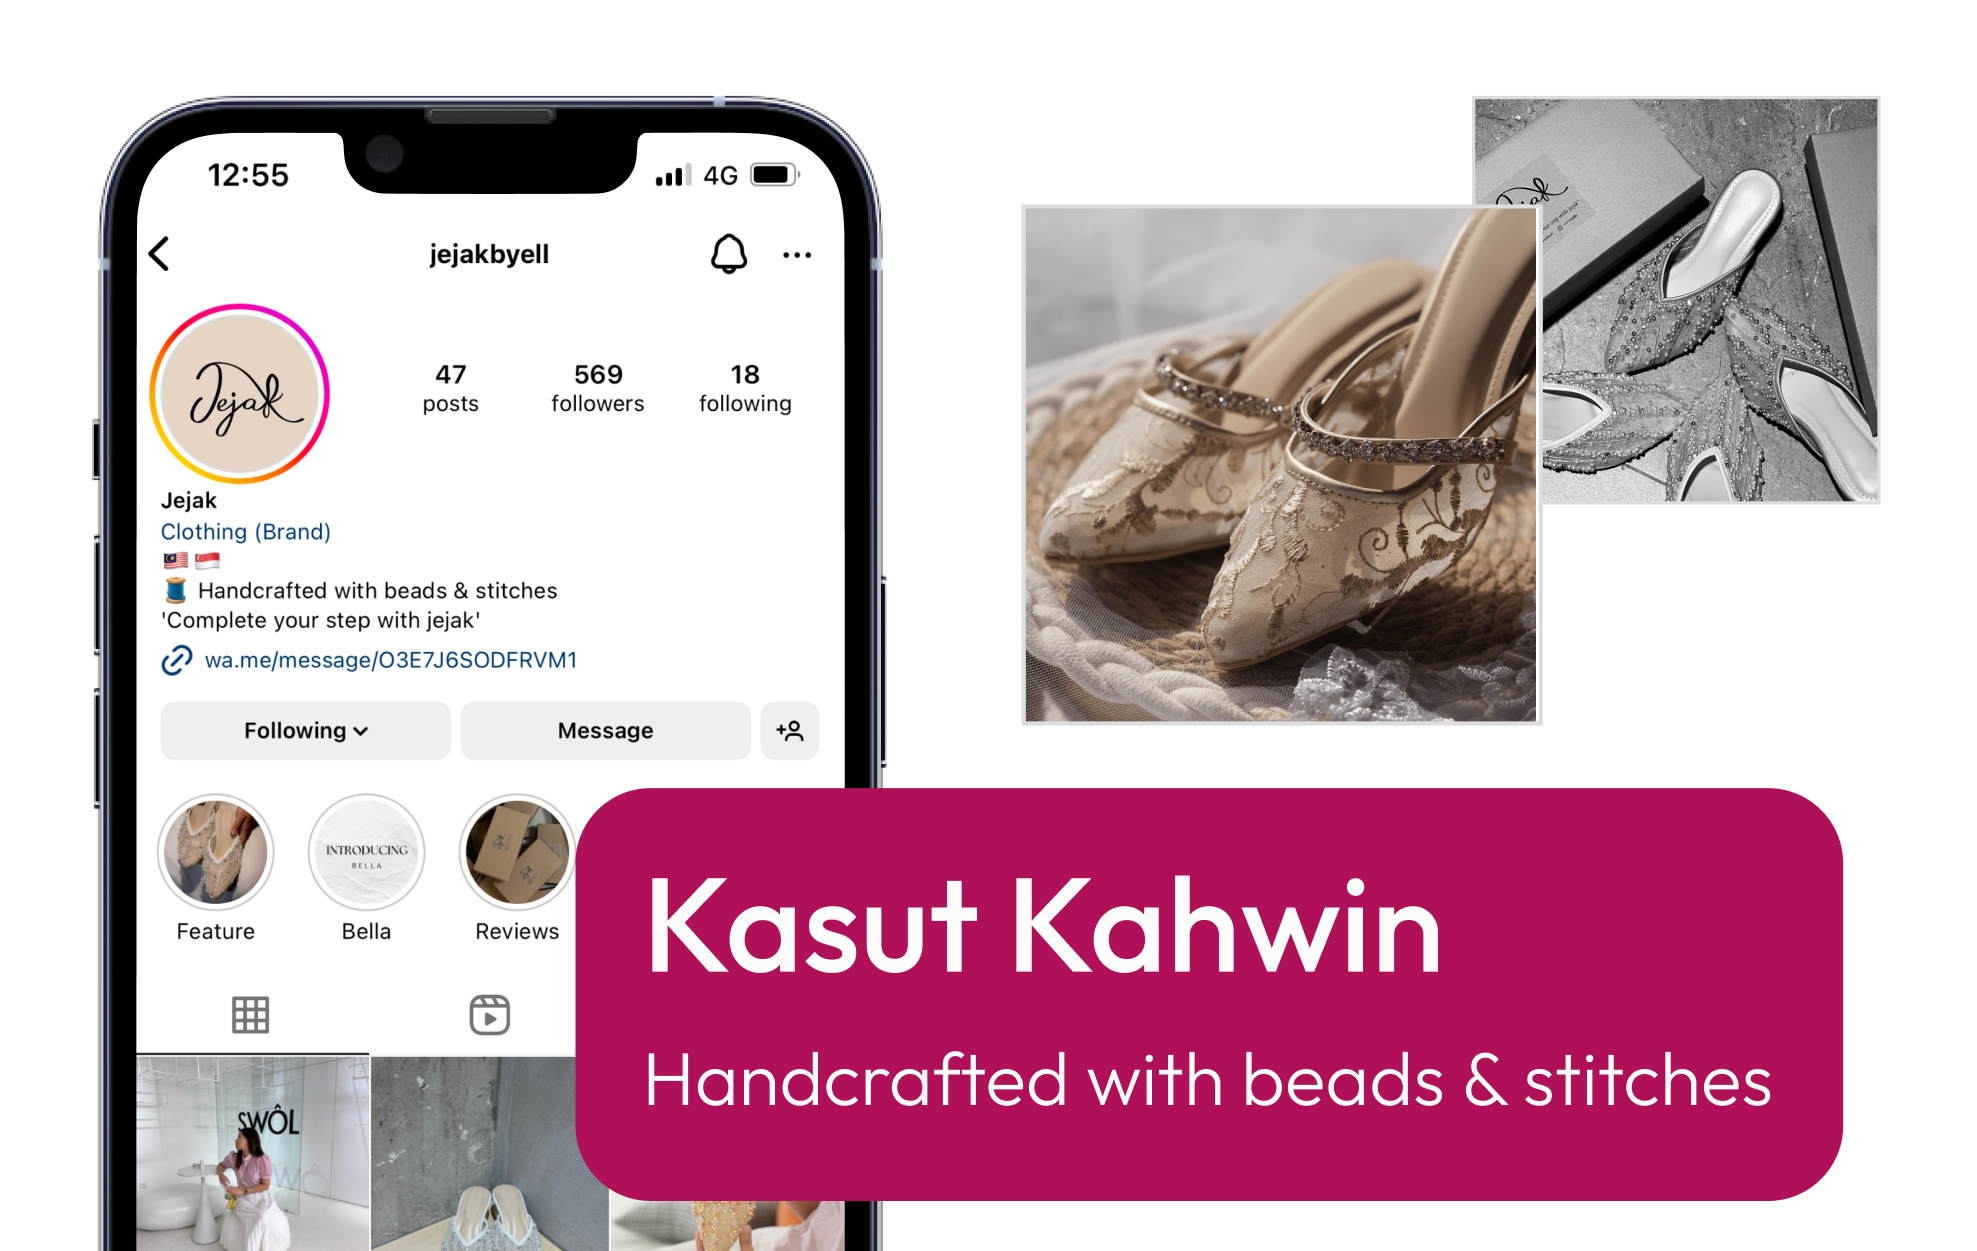
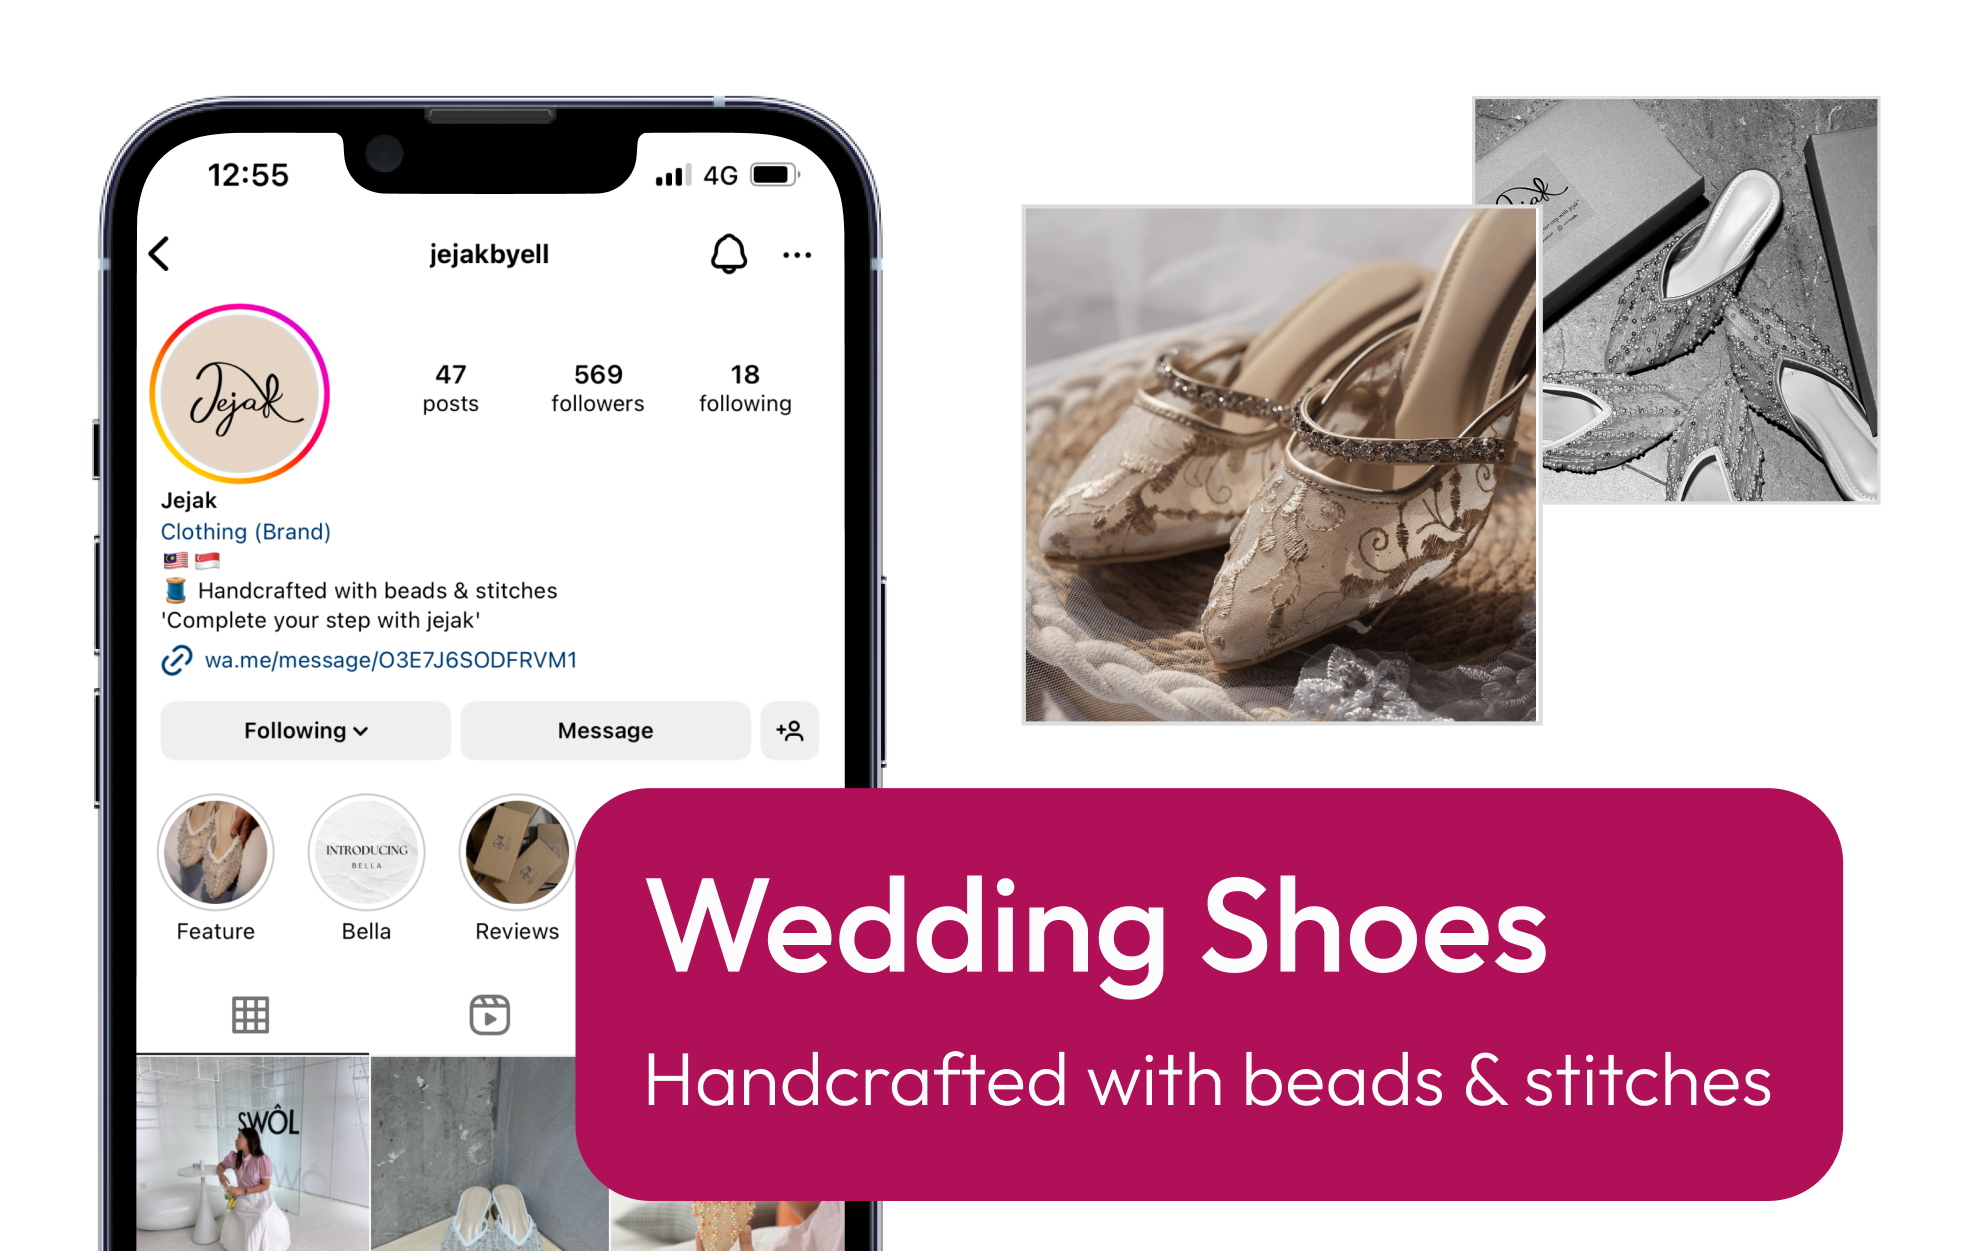
Update Ads section with new image

Changed region(s): [[0.3085, 0.6859, 0.8022, 0.8106]]

diff --git a/packages/blog-starter-kit/themes/enterprise/pages/index.tsx b/packages/blog-starter-kit/themes/enterprise/pages/index.tsx
@@ -181,7 +181,7 @@ export default function Index({ publication, initialAllPosts, initialPageInfo }:
 							{/* Content Section */}
 								<div className="lg:w-1/2 md:w-full h-full p-8 bg-white border-neutral-200">
 									<div className="text-neutral-500 text-xs font-light font-['Outfit'] uppercase leading-[18px] tracking-[4.80px]">IKLAN</div>
-									<div className="text-neutral-800 lg:text-3xl text-2xl font-semibold font-['Outfit'] leading-9">Korang nak kasut kahwin handcrafted yang slay atas pelamin nanti?</div>
+									<div className="text-neutral-800 lg:text-3xl text-2xl font-semibold font-['Outfit'] leading-9">In love with detailing? Slay yourself dengan kasut kahwin unik atas pelamin nanti!</div>
 										<div className="w-fit mt-8 rounded-full px-8 py-4 bg-primary-500 cursor-pointer">
 											<div className="text-center text-white text-base font-semibold font-['Outfit'] leading-normal">Order Sekarang</div>
 										</div>

diff --git a/packages/blog-starter-kit/themes/enterprise/pages/[slug].tsx b/packages/blog-starter-kit/themes/enterprise/pages/[slug].tsx
@@ -203,7 +203,7 @@ export default function PostOrPage(props: Props) {
 								{/* Content Section */}
 									<div className="lg:w-1/2 md:w-full h-full p-8 bg-white border-neutral-200">
 										<div className="text-neutral-500 text-xs font-light font-['Outfit'] uppercase leading-[18px] tracking-[4.80px]">IKLAN</div>
-										<div className="text-neutral-800 lg:text-3xl text-2xl font-semibold font-['Outfit'] leading-9">Korang nak kasut kahwin handcrafted yang slay atas pelamin nanti?</div>
+										<div className="text-neutral-800 lg:text-3xl text-2xl font-semibold font-['Outfit'] leading-9">In love with detailing? Slay yourself dengan kasut kahwin unik atas pelamin nanti!</div>
 											<div className="w-fit mt-8 rounded-full px-8 py-4 bg-primary-500 cursor-pointer">
 												<div className="text-center text-white text-base font-semibold font-['Outfit'] leading-normal">Order Sekarang</div>
 											</div>
